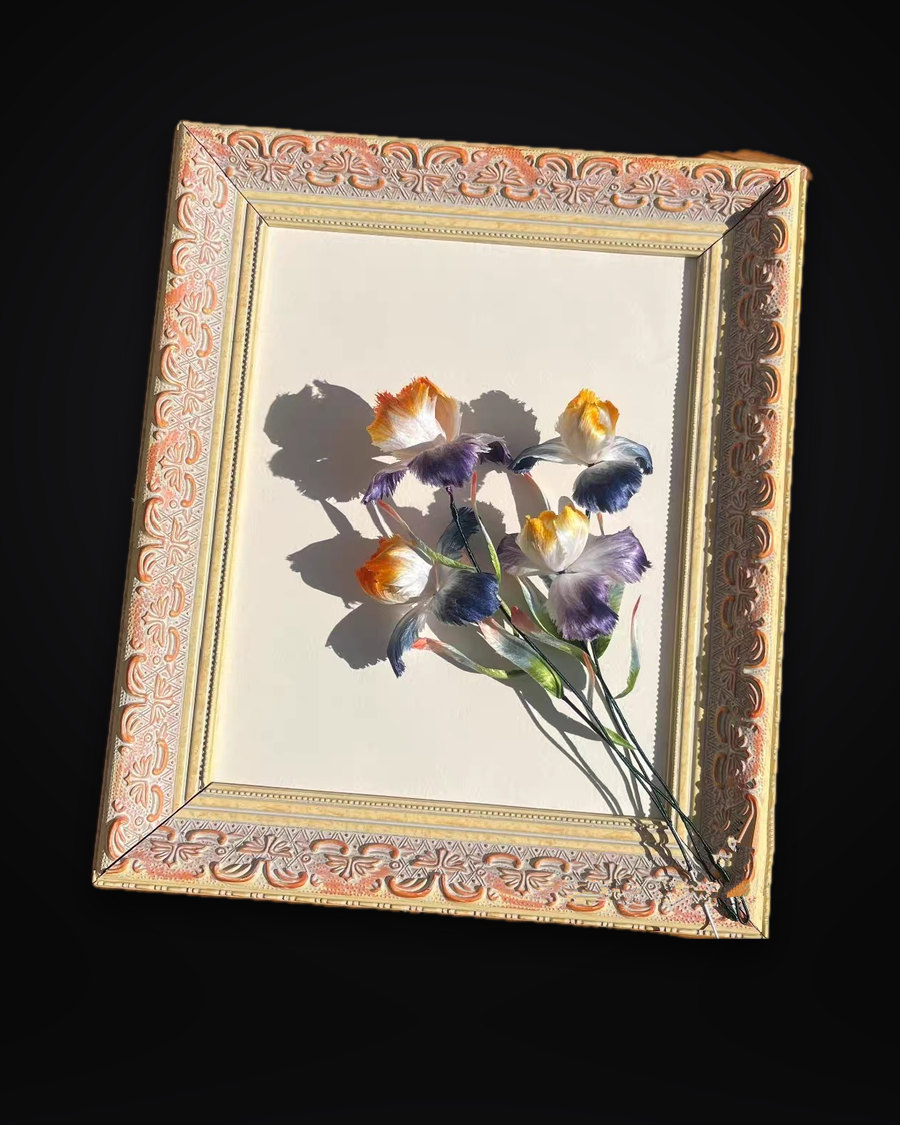
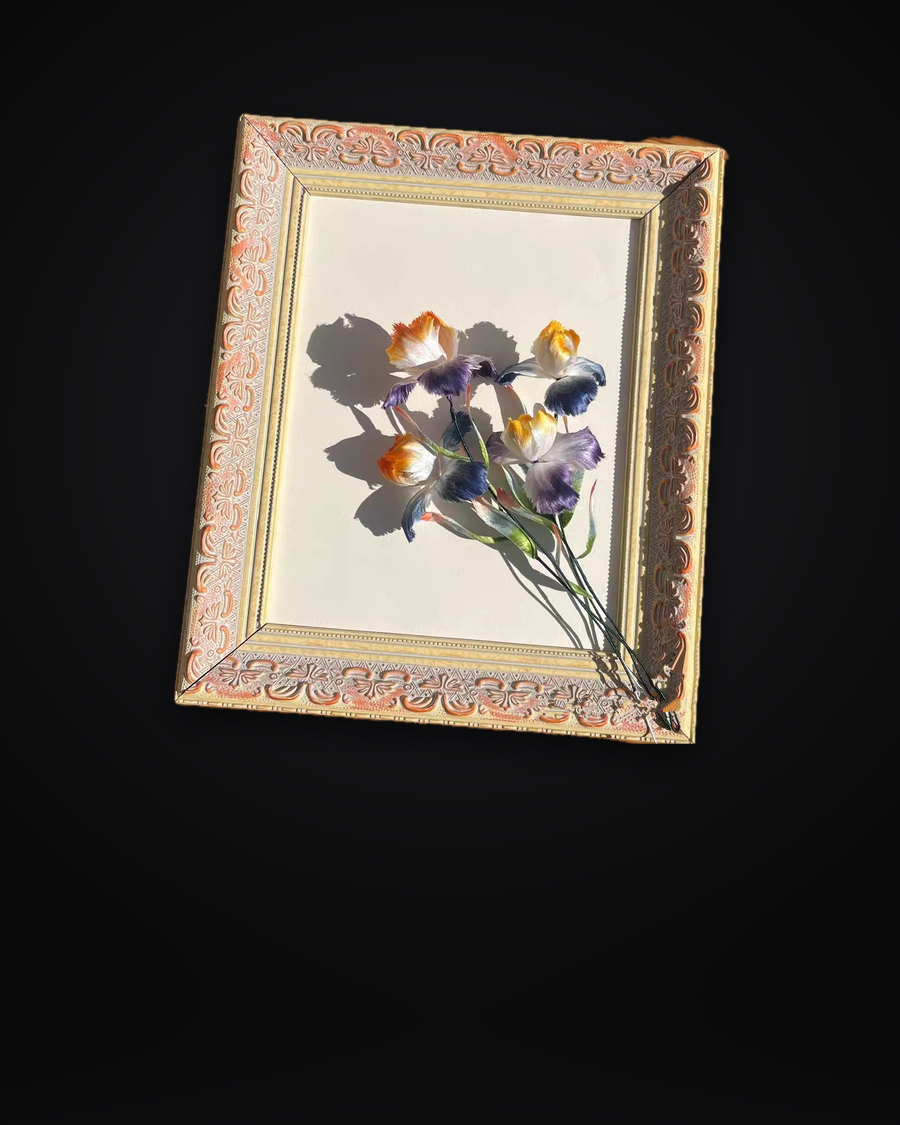
全部作品统一展台封面，新增 13 件立体效果
第 4 批：
- 34 张展台图统一重排：同样的黑丝绒底，主体上移，给卡片文字留位置
- 若尘、如血、蓝蜻蜓、生丝小鸟、芙蓉等 13 件新增透明主体层，首页轮播和详情页有立体效果
- 君主斑蝶、在水一方、枝叶茶用、落梅紫藤背景太乱，用装框照片做封面（frame），不进详情图集
- 首页轮播等第一张图加载完再开始计时

diff --git a/js/works.js b/js/works.js
@@ -41,7 +41,7 @@ window.MUSEUM = {
     },
     {
       id: 'zhijin', name: '织锦画', en: 'Brocade Art', status: 'open',
-      cover: 'works/lushen-1.jpg',
+      cover: 'works/lushen-1-stage.jpg',
       intro: '收锦料时挑出织纹好看的几块，裱成了框画。',
       about:
         '织锦以桑蚕丝为主料。收集东方锦料样本时，光盐居会把织纹有意思的几块裱成框画。\n' +
@@ -56,7 +56,7 @@ window.MUSEUM = {
     },
     {
       id: 'qidian', name: '漆钿', en: 'Lacquer & Inlay', status: 'open',
-      cover: 'works/luodian-1.jpg',
+      cover: 'works/luodian-4-stage.jpg',
       intro: '贝壳的光，铺在黑色真丝上。',
       about:
         '螺钿是把贝壳磨成薄片、嵌饰在器物表面的老手艺，属于髹漆工艺的一支。光盐居的螺钿画以黑色真丝为底，贝片配合手绘，挂在家里、送人都合适。\n' +
@@ -80,6 +80,7 @@ window.MUSEUM = {
    *   summary   正文，\n 分段；整行写成【xx】或 #xx# 会显示为小标题
    *   images    图片路径（相对 assets/），第一张是封面
    *   stage     展台合成图（抠图后放在黑丝绒底上），有它时做卡片封面，并排在详情第一张
+ *   frame     true 时 stage 只是把原照片装框放上展台（背景太乱抠不出主体），只做封面、不进详情
    *   cut       透明底主体层（WebP），有它时主页轮播和详情第一张用分层展台，带立体效果
    *   credit    图片来源说明（有展台图时，第 1 张是展台图，原图从第 2 张起）
    *   source    闲鱼原帖链接
@@ -88,6 +89,7 @@ window.MUSEUM = {
     /* ---------- 珠宝篇（待定）：只保留若尘花冠的图片 ---------- */
     {
       id: 'dust', cat: '',
+      stage: 'works/dust-4-stage.jpg', cut: 'works/dust-4-cut.webp',
       series: '珠宝篇', title: '若尘', subtitle: '传世花冠',
       glow: '#7fb7d9',
       images: ['works/dust-4.jpg', 'works/dust-5.jpg', 'works/dust-1.jpg', 'works/dust-7.jpg',
@@ -124,6 +126,7 @@ window.MUSEUM = {
     },
     {
       id: 'niao', cat: 'ronghua', group: 'mengwu',
+      stage: 'works/niao-1-stage.jpg', cut: 'works/niao-1-cut.webp',
       title: '点枝渴', subtitle: '生丝小鸟',
       tags: ['生丝', '小鸟', '枝头树果'],
       glow: '#e2803a',
@@ -168,6 +171,7 @@ window.MUSEUM = {
     },
     {
       id: 'junzhu', cat: 'ronghua', group: 'huanyu',
+      stage: 'works/answers-1-stage.jpg', frame: true,
       series: '博物系列', title: '君主斑蝶', subtitle: 'Answers on Her Way',
       tags: ['拟态造景', '双面蝶', '精微毒花', '夹竹桃'],
       glow: '#e0782c', feature: true,
@@ -193,15 +197,17 @@ window.MUSEUM = {
     },
     {
       id: 'ruxue', cat: 'ronghua', group: 'huanyu',
+      stage: 'works/ruxue-1-stage.jpg', cut: 'works/ruxue-1-cut.webp',
       title: '如血',
       tags: ['彼岸花', '发簪', '透明匣'],
       glow: '#b0182a',
       summary: '一簇血红的彼岸花，细长的蕊向四面散开，花下是一支白色发簪。收藏时装进透明匣，外面系一段白纱。',
       images: ['works/ruxue-1.jpg', 'archive/redbloom.jpg'],
-      credit: '第 2 张为收藏者实拍'
+      credit: '第 3 张为收藏者实拍'
     },
     {
       id: 'qingting', cat: 'ronghua', group: 'huanyu',
+      stage: 'works/qingting-1-stage.jpg', cut: 'works/qingting-1-cut.webp',
       title: '蓝蜻蜓',
       tags: ['青金石', '光盐居代表色', '胸针', '手书落款'],
       glow: '#2f4fe0',
@@ -215,7 +221,7 @@ window.MUSEUM = {
         '颜色取自阿富汗青金石。光盐居比对了一批蓝度不同的原石，在染色蚕丝里试过群青和天蓝，最后定了深蓝。后来的繁星月牙梳、蓝苍、如露都用了这抹蓝，它也成了光盐居的代表色。',
       images: ['works/qingting-1.jpg', 'archive/dragonfly-3.jpg', 'archive/dragonfly-6.jpg', 'archive/dragonfly-4.jpg',
                'archive/dragonfly-5.jpg', 'archive/dragonfly-1.jpg', 'archive/dragonfly-2.jpg'],
-      credit: '第 2～7 张为收藏者实拍'
+      credit: '第 3～8 张为收藏者实拍'
     },
 
     /* ================= 绒花 · 繁花世界 ================= */
@@ -268,6 +274,7 @@ window.MUSEUM = {
     },
     {
       id: 'moli', cat: 'ronghua', group: 'fanhua',
+      stage: 'works/moli-1-stage.jpg', frame: true,
       title: '在水一方', subtitle: '茉莉花',
       tags: ['茉莉', '花串', '耳坠', '七夕'],
       glow: '#dcd8c8',
@@ -292,6 +299,7 @@ window.MUSEUM = {
     },
     {
       id: 'furong', cat: 'ronghua', group: 'fanhua',
+      stage: 'works/furong-1-stage.jpg', cut: 'works/furong-1-cut.webp',
       title: '点绛唇', subtitle: '芙蓉',
       tags: ['芙蓉', '粉白渐变'],
       glow: '#e86a7a',
@@ -317,6 +325,7 @@ window.MUSEUM = {
     },
     {
       id: 'malan', cat: 'ronghua', group: 'fanhua',
+      stage: 'works/malan-1-stage.jpg', cut: 'works/malan-1-cut.webp',
       series: '博物系列', title: '掐丝马兰花',
       tags: ['掐丝', '马兰花'],
       glow: '#7a6ad8',
@@ -325,6 +334,7 @@ window.MUSEUM = {
     },
     {
       id: 'meigui', cat: 'ronghua', group: 'fanhua',
+      stage: 'works/meigui-1-stage.jpg', cut: 'works/meigui-1-cut.webp',
       title: '暗香玫瑰',
       tags: ['玫瑰', '框画'],
       glow: '#9c1730',
@@ -335,6 +345,7 @@ window.MUSEUM = {
     /* ================= 绒花 · 行礼如仪 ================= */
     {
       id: 'xiaobaihua', cat: 'ronghua', group: 'xingli',
+      stage: 'works/xiaobaihua-1-stage.jpg', cut: 'works/xiaobaihua-1-cut.webp',
       series: '祭时礼', title: '小白花',
       tags: ['白花', '祭奠'],
       glow: '#e8e4d8',
@@ -402,6 +413,7 @@ window.MUSEUM = {
     },
     {
       id: 'chazhen', cat: 'ronghua', group: 'xingli',
+      stage: 'works/chazhen-1-stage.jpg', frame: true,
       series: '宜室宜家', title: '枝叶茶用', subtitle: '竹枝一回眸',
       tags: ['竹作', '茶针', '茶拨'],
       glow: '#7fae4a',
@@ -422,6 +434,7 @@ window.MUSEUM = {
     },
     {
       id: 'fanxing', cat: 'ronghua', group: 'xingli',
+      stage: 'works/fanxing-1-stage.jpg', cut: 'works/fanxing-1-cut.webp',
       series: '宜室宜家', title: '繁星月牙梳',
       tags: ['发梳', '淡水珍珠', '光盐居代表色'],
       glow: '#3d6cf0',
@@ -436,10 +449,11 @@ window.MUSEUM = {
         '梳子可以更换为木梳，也可以改为其他主体，或者也可以直接做成插花。（样品图里的梳子不是银料，具体什么材质没测过。仅是表面带闪银色，中意它的好看又耐用而已。）\n' +
         '可改色改形。更接近点翠颜色的蚕丝线，倒也不是没有。另外这个花挺像勿忘我的。',
       images: ['works/fanxing-1.jpg', 'archive/bluecomb.jpg'],
-      credit: '第 2 张为收藏者实拍'
+      credit: '第 3 张为收藏者实拍'
     },
     {
       id: 'ziteng', cat: 'ronghua', group: 'xingli',
+      stage: 'works/ziteng-1-stage.jpg', frame: true,
       series: '宜室宜家', title: '落梅紫藤',
       tags: ['紫藤', '落梅'],
       glow: '#c97ab0',
@@ -459,6 +473,7 @@ window.MUSEUM = {
     /* ================= 织锦画 ================= */
     {
       id: 'mawen', cat: 'zhijin', group: 'zhijin',
+      stage: 'works/mawen-2-stage.jpg', cut: 'works/mawen-2-cut.webp',
       title: '炫彩马纹',
       tags: ['马纹', '桑蚕丝', '框画'],
       glow: '#b0306a',
@@ -473,6 +488,7 @@ window.MUSEUM = {
     },
     {
       id: 'shuimu', cat: 'zhijin', group: 'zhijin',
+      stage: 'works/shuimu-3-stage.jpg', cut: 'works/shuimu-3-cut.webp',
       title: '幽蓝水母',
       tags: ['水母', '茶纤维', '框画'],
       glow: '#3a6ad8',
@@ -487,6 +503,7 @@ window.MUSEUM = {
     },
     {
       id: 'lushen', cat: 'zhijin', group: 'zhijin',
+      stage: 'works/lushen-1-stage.jpg', cut: 'works/lushen-1-cut.webp',
       title: '林深见鹿',
       tags: ['鹿', '螺钿彩线', '挂画'],
       glow: '#d9a640', feature: true,
@@ -502,6 +519,7 @@ window.MUSEUM = {
     /* ================= 漆钿 ================= */
     {
       id: 'luodian', cat: 'qidian', group: 'luodian',
+      stage: 'works/luodian-4-stage.jpg', cut: 'works/luodian-4-cut.webp',
       title: '月夜吹笛少女',
       tags: ['星河璀璨', '螺钿手绘', '黑色真丝'],
       glow: '#7fd8cf', feature: true,

diff --git a/js/app.js b/js/app.js
@@ -21,9 +21,11 @@
   };
   var full = function (p) { return 'assets/' + p; };
   var thumb = function (p) { return 'assets/thumbs/' + p.split('/').pop(); };
-  // 有展台图（抠图后放在黑丝绒底上）的作品，用它做封面，并排在图集第一张
+  // 有展台图（抠图后放在黑丝绒底上）的作品，用它做封面，并排在图集第一张；
+  // frame 作品的展台图只是把原照片装框，只做封面，不进图集
   var coverOf = function (w) { return w.stage || w.images[0]; };
-  var galleryOf = function (w) { return w.stage ? [w.stage].concat(w.images) : w.images; };
+  var hasStageSlide = function (w) { return !!w.stage && !w.frame; };
+  var galleryOf = function (w) { return hasStageSlide(w) ? [w.stage].concat(w.images) : w.images; };
   /* ---------- 分层视差（立体感） ----------
    * 有透明底主体层（cut）的作品，展台由四层组成：底光、地面、投影、主体。
    * 每个“视差区”上有 --px / --py 两个变量（-1～1），各层按不同幅度响应，于是有了纵深。
@@ -340,7 +342,7 @@
     $('ex-summary').hidden = !w.summary;
     paragraphs($('ex-note'), w.note);
     $('ex-note-wrap').hidden = !(w.note && w.note.trim());
-    $('ex-credit').textContent = [w.stage ? '第 1 张为展台合成图' : '', w.credit].filter(Boolean).join('；');
+    $('ex-credit').textContent = [hasStageSlide(w) ? '第 1 张为展台合成图' : '', w.credit].filter(Boolean).join('；');
     // 有原帖链到原帖，没有就链到作者闲鱼主页
     var src = $('ex-source');
     src.href = w.source || M.shop;
@@ -350,13 +352,13 @@
     thumbs.textContent = '';
     var gallery = galleryOf(w);
     gallery.forEach(function (p, k) {
-      var isStage = w.stage && k === 0;
+      var isStage = hasStageSlide(w) && k === 0;
       var s = el('div', 'ex-slide' + (isStage ? ' is-stage' : ''));
       if (isStage && w.cut) {
         s.appendChild(makeStage(w, true));
         addZone(s);
       } else if (isStage) {
-        s.appendChild(img(full(p), null, w.title + '（展台合成图）', true));
+        s.appendChild(img(thumb(p), full(p), w.title + '（展台合成图）', true));
       } else {
         s.appendChild(img(full(p), null, w.title + '（第 ' + (k + 1) + ' 张）', k === 0));
       }
@@ -432,7 +434,10 @@
       var b = el('button', 'hc-slide');
       b.type = 'button';
       b.setAttribute('aria-label', [w.title, w.subtitle].filter(Boolean).join(' · ') + '，查看详情');
-      b.appendChild(w.cut ? makeStage(w, true) : img(full(coverOf(w)), null, w.title, true));
+      // 展台图只有缩略图尺寸（thumbs/），其余用大图
+      b.appendChild(w.cut ? makeStage(w, true)
+        : w.stage ? img(thumb(w.stage), null, w.title, true)
+        : img(full(w.images[0]), null, w.title, true));
       b.addEventListener('click', function () { lastFocus = b; location.hash = '#/w/' + w.id; });
       stageBox.appendChild(b);
       addZone(b);
@@ -451,8 +456,9 @@
     var timer = 0;
     var startedAt = 0;
     var remaining = DUR;
-    var holds = { hover: false, focus: false, hidden: document.hidden };
-    var held = function () { return holds.hover || holds.focus || holds.hidden; };
+    // loading：第一张的图加载完才开始计时，免得网速慢时若尘还没出来就切走了
+    var holds = { hover: false, focus: false, hidden: document.hidden, loading: true };
+    var held = function () { return holds.hover || holds.focus || holds.hidden || holds.loading; };
     var schedule = function () {
       clearTimeout(timer);
       if (!autoplay || held()) return;
@@ -500,6 +506,18 @@
       if (Math.abs(dx) > 40) go((at + (dx < 0 ? 1 : ids.length - 1)) % ids.length);
     });
     go(0);
+    box.classList.add('is-paused');
+    var firstImgs = Array.prototype.slice.call(slides[0].querySelectorAll('img'));
+    var left = firstImgs.length;
+    var ready = function () { if (holds.loading) hold('loading', false); };
+    firstImgs.forEach(function (im) {
+      if (im.complete) { if (!--left) ready(); return; }
+      var done = function () { if (!--left) ready(); };
+      im.addEventListener('load', done);
+      im.addEventListener('error', done);
+    });
+    if (!firstImgs.length) ready();
+    setTimeout(ready, 8000);
   })();
 
   /* ---------- 路由 ---------- */

diff --git a/README.md b/README.md
@@ -35,7 +35,8 @@ cd 光盐居 && python3 -m http.server 8000
    - `images`：图片路径，第一张是封面。
    - `glow`：这件作品的“光色”，取作品主色即可。
    - `feature: true`：在门类页占双倍大小（可选）。`focus`：横图封面裁切的重心（可选）。
-   - `stage` / `cut`：展台图和透明底主体层（可选）。有 `cut` 时，首页轮播和详情第一张会用分层展台，带随鼠标 / 自动摆动的立体效果；`stage` 只需要放在 `assets/thumbs/` 里做封面缩略图。没有 `cut` 却写了 `stage` 时，`assets/works/` 里也要放同名大图。
+   - `stage` / `cut`：展台图和透明底主体层（可选）。有 `cut` 时，首页轮播和详情第一张会用分层展台，带随鼠标 / 自动摆动的立体效果；`stage` 只需要放在 `assets/thumbs/` 里做封面缩略图。所有作品的卡片封面都用展台图，保证展墙背景一致。
+   - `frame: true`：背景太乱、抠不出主体的作品，展台图是把原照片装进细黑框放上展台，只做封面，不进详情图集。
 3. 保存，刷新页面。
 
 编号（No.001…）按门类和陈列的顺序自动生成。缩略图可以不做：`assets/thumbs/` 里没有同名文件时，会自动用原图。
